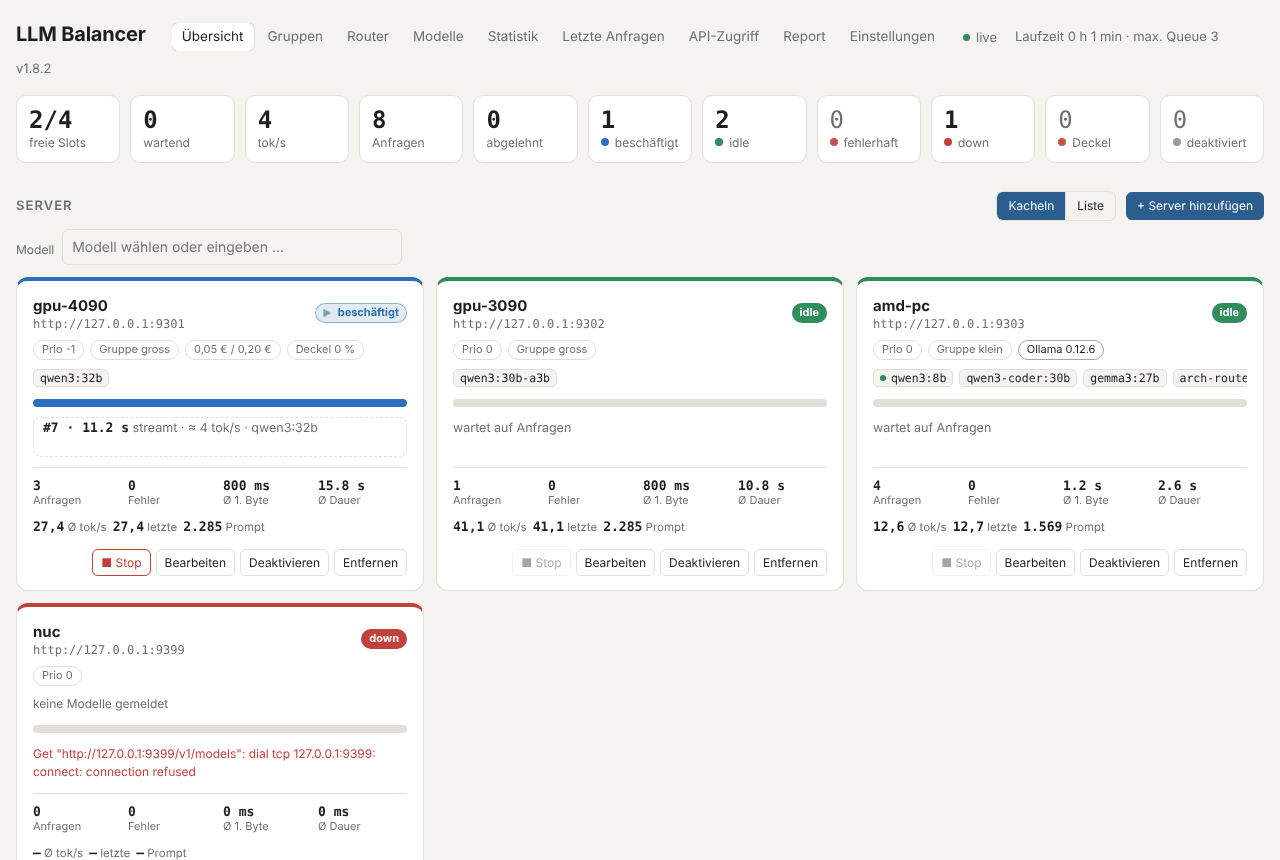
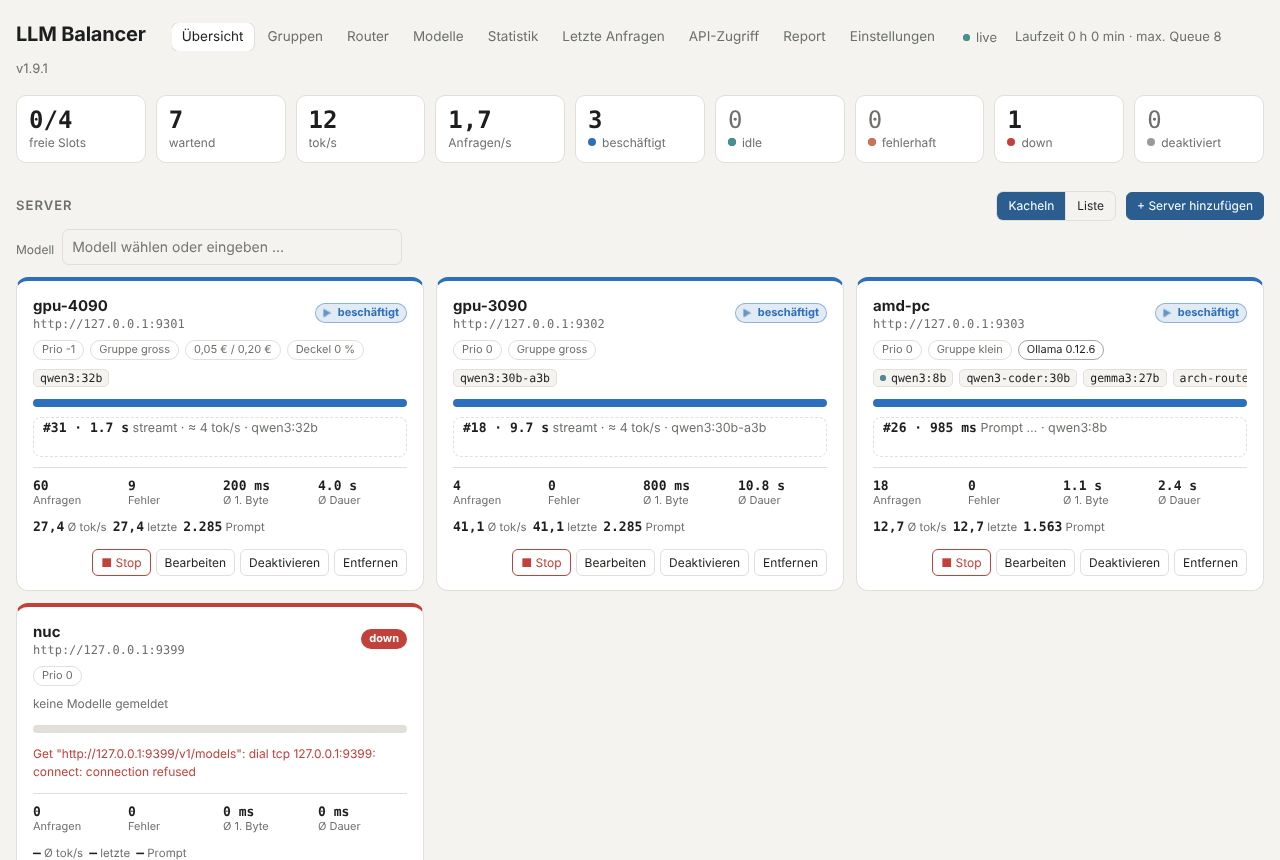
v1.10.0: requests/s tile, statistics by group, segment switches re-render immediately
Claude-Session: https://claude.ai/code/session_01KQcn9DnyiX6NLjayKoW5s7

diff --git a/web/index.html b/web/index.html
@@ -290,13 +290,11 @@ tr.child td{background:var(--bg);font-size:12px} tr.child td:first-child{padding
     <div class="tile"><b id="t-free">–</b><span>freie Slots</span></div>
     <div class="tile" title="Anfragen in der Warteschlange"><b id="t-queue">–</b><span>wartend</span></div>
     <div class="tile" title="Erzeugte Tokens pro Sekunde über alle Server, Ø der letzten 10 s"><b id="t-tps">–</b><span id="t-tpssub">tok/s</span></div>
-    <div class="tile" title="Anfragen gesamt"><b id="t-total">–</b><span>Anfragen</span></div>
-    <div class="tile"><b id="t-rej">–</b><span>abgelehnt</span></div>
+    <div class="tile" id="t-rpsbox" title="Anfragen pro Sekunde, Ø der letzten 10 s"><b id="t-rps">–</b><span>Anfragen/s</span></div>
     <div class="tile st busy" id="s-busy"><b>–</b><span><i class="sdot"></i>beschäftigt</span></div>
     <div class="tile st idle" id="s-idle"><b>–</b><span><i class="sdot"></i>idle</span></div>
     <div class="tile st error" id="s-error"><b>–</b><span><i class="sdot"></i>fehlerhaft</span></div>
     <div class="tile st down" id="s-down"><b>–</b><span><i class="sdot"></i>down</span></div>
-    <div class="tile st capped" id="s-capped"><b>–</b><span title="Kostendeckel erreicht"><i class="sdot"></i>Deckel</span></div>
     <div class="tile st disabled" id="s-disabled"><b>–</b><span><i class="sdot"></i>deaktiviert</span></div>
   </div>
 
@@ -345,7 +343,7 @@ tr.child td{background:var(--bg);font-size:12px} tr.child td:first-child{padding
       <button data-v="1">Tag</button><button data-v="7">7 Tage</button><button data-v="30" class="on">30 Tage</button><button data-v="90">90 Tage</button><button data-v="365">1 Jahr</button>
     </div>
     <div class="seg" id="bySeg">
-      <button data-v="server" class="on">nach Server</button><button data-v="model">nach Modell</button>
+      <button data-v="server" class="on">nach Server</button><button data-v="group">nach Gruppe</button><button data-v="model">nach Modell</button>
     </div>
     <div class="seg" id="daySeg" hidden>
       <button data-v="util" class="on">Auslastung</button><button data-v="requests">Anfragen</button><button data-v="queue">Warteschlange</button>
@@ -941,7 +939,7 @@ const stateLabel = b => (b.group_disabled && b.enabled ? 'Gruppe aus' : STATE[b.
 // state counters in the tile row; the tile lights up when the count is > 0, hover shows which servers
 function renderOverview(st) {
   const n = st.states || {};
-  for (const k of ['busy', 'idle', 'error', 'down', 'capped', 'disabled']) {
+  for (const k of ['busy', 'idle', 'error', 'down', 'disabled']) {
     const el = $('s-' + k), c = n[k] || 0;
     el.querySelector('b').textContent = c;
     el.classList.toggle('on', c > 0);
@@ -1150,8 +1148,9 @@ async function refresh() {
     $('version').title = st.commit ? 'Commit ' + st.commit : '';
     $('t-free').textContent = `${st.free_slots}/${st.total_slots}`;
     $('t-queue').textContent = st.queue.length;
-    $('t-total').textContent = st.total_requests;
-    $('t-rej').textContent = st.rejected;
+    const rps = st.live?.rps || 0;
+    $('t-rps').textContent = rps.toLocaleString('de-DE', {minimumFractionDigits: rps && rps < 10 ? 1 : 0, maximumFractionDigits: rps < 10 ? 1 : 0});
+    $('t-rpsbox').title = `Anfragen pro Sekunde, Ø der letzten 10 s (${(rps * 60).toLocaleString('de-DE', {maximumFractionDigits: 0})} pro Minute)\nseit Start: ${num(st.total_requests)} Anfragen, ${num(st.rejected)} abgelehnt`;
     $('uptime').textContent = 'Laufzeit ' + up(st.uptime_sec) + ' · max. Queue ' + st.max_queue_seen;
     renderOverview(st);
     renderAccessNote(st);
@@ -1564,6 +1563,17 @@ function stView() {
     if (d.backends.includes('(kein Server)')) names.push('(kein Server)');
     return {names, all: names, row: day => d.data[day] || {}, raw: day => d.data[day] || {}, totals: d.totals, color: seriesColor};
   }
+  if (stBy === 'group') {
+    // the days of each server added up by the group the server belongs to now
+    const gOf = n => { const b = current?.backends.find(x => x.name === n); return b ? (b.group || '(ohne Gruppe)') : '(entfernte Server)'; };
+    const fold = m => { const o = {}; for (const [n, st] of Object.entries(m || {})) { if (n === '(kein Server)') continue; const g = gOf(n); o[g] = o[g] ? mergeStat(o[g], st) : {...st}; } return o; };
+    const cache = {}, row = day => cache[day] ??= fold(d.data[day]);
+    const totals = fold(d.totals);
+    const order = (current?.groups || []).map(g => g.name).concat(['(ohne Gruppe)', '(entfernte Server)']);
+    const names = order.filter(n => totals[n]);
+    const color = n => n === '(entfernte Server)' ? 'var(--sx)' : `var(--s${(order.indexOf(n) % 8) + 1})`;
+    return {names, all: names, row, raw: row, totals, color};
+  }
   const models = d.models || [], top = models.slice(0, 7), rest = models.slice(7);
   const colored = [...top].filter(n => n !== '(ohne Modell)').sort((a, b) => a.localeCompare(b));
   const color = n => { const i = colored.indexOf(n); return i >= 0 ? `var(--s${i + 1})` : 'var(--sx)'; };
@@ -1702,7 +1712,7 @@ function statRow(st) {
 function renderStatTables() {
   const d = stData; if (!d) return;
   const V = stView(), names = V.all;
-  const label = stBy === 'server' ? 'Server' : 'Modell';
+  const label = {server: 'Server', group: 'Gruppe', model: 'Modell'}[stBy];
   $('stbyhead').textContent = label; $('stbyhead2').textContent = label; $('stdaysum').textContent = 'Pro Tag und ' + label;
   const all = names.reduce((a, n) => a + V.totals[n].requests, 0);
   const sw = n => `<td class="sw"><i style="background:${V.color(n)}"></i>${esc(n)}</td>`;
@@ -1864,7 +1874,7 @@ async function loadStats() {
   try {
     stData = await (await fetch(`${base}/api/stats?days=${stRange}`, {cache:'no-store'})).json();
     for (const k of ['backends', 'models', 'tokens', 'days']) stData[k] = stData[k] || []; // older servers sent null
-    $('csvlink').href = `${base}/api/stats?days=${stRange}&format=csv&by=${stBy}`;
+    $('csvlink').href = `${base}/api/stats?days=${stRange}&format=csv&by=${stBy === 'group' ? 'server' : stBy}`;
     renderChart(); renderStatTables();
   } catch (e) {}
 }
@@ -1872,12 +1882,12 @@ function segment(id, set) {
   $(id).addEventListener('click', ev => {
     const btn = ev.target.closest('button'); if (!btn) return;
     $(id).querySelectorAll('button').forEach(b => b.classList.toggle('on', b === btn));
-    set(btn.dataset.v);
+    setTimeout(() => set(btn.dataset.v), 20); // after pointerup: setHTML skips re-renders while the pointer is down
   });
 }
 segment('rangeSeg', v => { stRange = +v; setDayMode(); loadStats(); });
 segment('metricSeg', v => { stMetric = v; renderChart(); });
-segment('bySeg', v => { stBy = v; renderChart(); renderStatTables(); $('csvlink').href = `${base}/api/stats?days=${stRange}&format=csv&by=${stBy}`; });
+segment('bySeg', v => { stBy = v; renderChart(); renderStatTables(); $('csvlink').href = `${base}/api/stats?days=${stRange}&format=csv&by=${stBy === 'group' ? 'server' : stBy}`; });
 async function mergeStats(kind, from) {
   const names = kind === 'backend' ? current.backends.map(b => b.name) : tokenList.map(t => t.name);
   const to = prompt(`Statistik von „${from}“ übertragen auf:\n${names.join(', ')}`, names[0] || '');

diff --git a/throughput.go b/throughput.go
@@ -16,7 +16,8 @@ type tpsSample struct {
 type LiveLoad struct {
 	Running int     `json:"running"`
 	Queued  int     `json:"queued"`
-	TPS     float64 `json:"tps"` // generated tokens/s, average over the last seconds
+	TPS     float64 `json:"tps"`           // generated tokens/s, average over the last seconds
+	RPS     float64 `json:"rps,omitempty"` // requests/s (total only)
 }
 
 type LiveStatus struct {
@@ -57,6 +58,7 @@ func (p *Pool) sampleTPSLocked(now time.Time) {
 		}
 		cum["all"] += n
 	}
+	cum["req"] = p.totalReqs
 	p.tpsHist = append(p.tpsHist, tpsSample{now, cum})
 	if len(p.tpsHist) > tpsWindow+1 {
 		p.tpsHist = p.tpsHist[len(p.tpsHist)-tpsWindow-1:]
@@ -102,6 +104,7 @@ func (p *Pool) liveLocked() LiveStatus {
 		}
 	}
 	ls.TPS = p.tpsLocked("all")
+	ls.RPS = p.tpsLocked("req")
 	if len(p.tpsHist) > 0 { // tokens/servers that produced output recently, even if idle now
 		last := p.tpsHist[len(p.tpsHist)-1].cum
 		for k := range last {

diff --git a/stats_test.go b/stats_test.go
@@ -238,3 +238,16 @@ func TestLiveThroughput(t *testing.T) {
 		t.Errorf("after finish: %+v %+v", v.LiveLoad, v.Tokens["hermes"])
 	}
 }
+
+func TestRequestsPerSecond(t *testing.T) {
+	a := newFakeLLM(t, "a", 10*time.Millisecond)
+	srv, pool := setup(t, nil, a)
+	pool.mu.Lock()
+	pool.sampleTPSLocked(time.Now().Add(-2 * time.Second))
+	pool.totalReqs += 6
+	pool.sampleTPSLocked(time.Now())
+	pool.mu.Unlock()
+	if r := status(t, srv.URL).Live.RPS; r < 2.5 || r > 3.5 {
+		t.Errorf("rps: %v", r)
+	}
+}

diff --git a/README.md b/README.md
@@ -108,9 +108,10 @@ Balancer das Modell selbst wählen soll.
 
 ### Übersicht
 
-Oben die Kacheln: freie Slots, Länge der Warteschlange, **Durchsatz** (erzeugte Tokens pro Sekunde über alle Server,
-Ø der letzten 10 s), Anfragen seit Start, abgelehnte Anfragen und wie viele Server
-gerade beschäftigt, frei, fehlerhaft, nicht erreichbar, am Kostendeckel oder deaktiviert sind.
+Oben die Kacheln: freie Slots, Länge der Warteschlange, **Durchsatz** (erzeugte Tokens pro Sekunde über alle Server)
+und **Anfragen pro Sekunde** (beides Ø der letzten 10 s; der Tooltip nennt Anfragen und Ablehnungen seit Start) sowie
+wie viele Server gerade beschäftigt, frei, fehlerhaft, nicht erreichbar oder deaktiviert sind. Ein Server am
+Kostendeckel ist auf seiner Karte markiert.
 
 Darunter jeder Server als Karte: Zustand (ein pulsierender ▶ zeigt „beschäftigt“), Priorität, Gruppe, Preise,
 gemeldete Modelle (grüner Punkt = bei Ollama im Speicher geladen), belegte Slots, die laufende Anfrage mit Dauer und
@@ -164,7 +165,8 @@ erscheint darunter und läuft weiter, auch wenn die Seite geschlossen wird. Pro 
 
 ### Statistik
 
-Zeitraum 7 Tage bis 1 Jahr, aufgeteilt nach Server oder Modell; das Diagramm zeigt Anfragen, Rechenzeit, Ø Dauer oder
+Zeitraum 7 Tage bis 1 Jahr, aufgeteilt nach Server, **Gruppe** (die Server zusammengezählt nach ihrer heutigen Gruppe;
+abgelehnte Anfragen ohne Server fehlen hier) oder Modell; das Diagramm zeigt Anfragen, Rechenzeit, Ø Dauer oder
 Tokens pro Tag. Die Tabelle enthält Fehler, Abbrüche, Zeiten, Tokens, tok/s, Tag-Fehler, Datenmenge sowie Einnahmen
 (Preise der API-Tokens), Kosten (Preise der Server) und Saldo. Darunter die Warteschlange pro Tag. **CSV-Export** und
 **Statistik löschen** oben rechts. Server, die es nicht mehr gibt, lassen sich per **zusammenführen …** auf einen

diff --git a/CHANGELOG.md b/CHANGELOG.md
@@ -3,6 +3,13 @@
 Versionsnummer: `VERSION` (wird ins Programm eingebaut und oben in der Web-UI angezeigt).
 Zu jeder Version gibt es ein Image `ghcr.io/wakkomon/llm-balancer:<version>`; `latest` ist immer der neueste Stand von `main`.
 
+## 1.10.0 – 2026-11-01
+
+- Übersicht: Kachel **Anfragen/s** (Ø der letzten 10 s) statt „Anfragen gesamt“; „abgelehnt“ und „Deckel“ entfallen
+  (Gesamtzahlen im Tooltip, Kostendeckel weiter auf der Server-Karte). Status-API: `live.rps`
+- Statistik: Aufteilung **nach Gruppe** (Server nach ihrer aktuellen Gruppe zusammengezählt, ohne abgelehnte Anfragen)
+- Behoben: Umschalter (Zeitraum, Aufteilung, Ansicht …) aktualisierten Tabellen teils erst beim nächsten Refresh
+
 ## 1.9.1 – 2026-11-01
 
 - **Letzte Anfragen nach Session gruppiert** (Standard): eine Zeile pro Session mit Anzahl, Modellen, Tokens, Servern,
